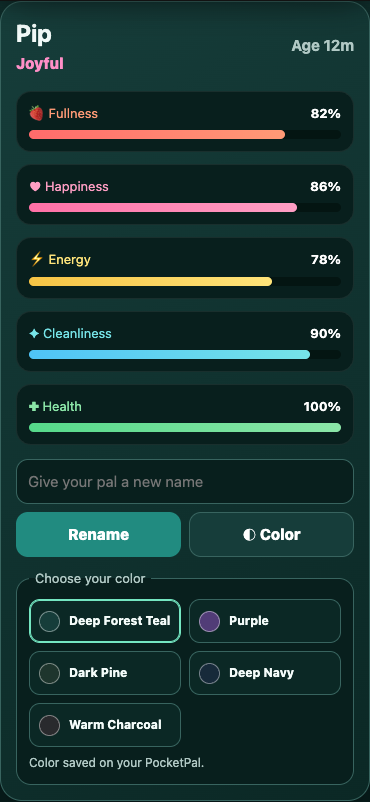
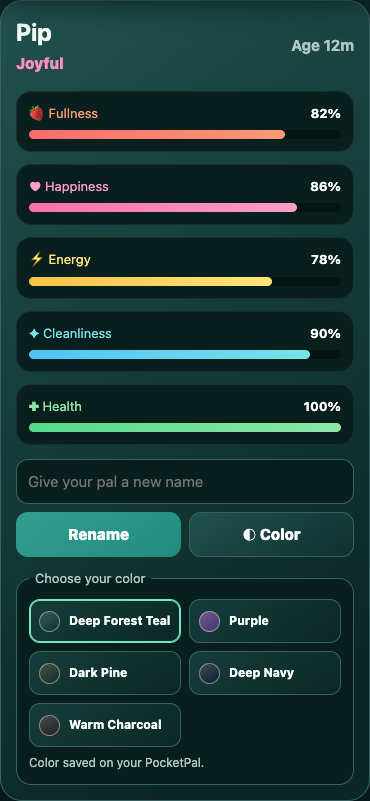
feat: enrich all five WebUI themes with gradients

diff --git a/src/WebPortal.cpp b/src/WebPortal.cpp
@@ -18,17 +18,22 @@ const char kPage[] PROGMEM = R"HTML(
 :root[data-theme="pine"]{--base:#1E352D;--bg:#0a1913;--surface:#162e24;--surface2:#1E352D;--line:#416754;--ink:#f5fcf7;--muted:#b5cbbc;--accent:#377d5f;--accent-hover:#469b75;--input:#0d2118;--panel:#11261c;--track:#06150d}
 :root[data-theme="navy"]{--base:#172A3A;--bg:#07131e;--surface:#112a3d;--surface2:#172A3A;--line:#35556e;--ink:#f4faff;--muted:#b2c5d5;--accent:#2d6a96;--accent-hover:#3984b8;--input:#091b2a;--panel:#0d2232;--track:#04111d}
 :root[data-theme="charcoal"]{--base:#292A2D;--bg:#131415;--surface:#242528;--surface2:#292A2D;--line:#54565c;--ink:#fafafa;--muted:#c4c3c1;--accent:#62656c;--accent-hover:#7b7e86;--input:#191a1c;--panel:#202124;--track:#101112}
-*{box-sizing:border-box}body{margin:0;min-height:100vh;background:radial-gradient(circle at 50% -10%,var(--base) 0,var(--surface) 40%,var(--bg) 78%);font:15px/1.4 ui-rounded,system-ui,-apple-system,sans-serif;color:var(--ink)}button,input,select{font:inherit}button{color:inherit}main{width:min(100%,820px);margin:auto;padding:18px 18px 34px}.topbar{display:flex;align-items:center;justify-content:space-between;margin:0 2px 14px}.brand{display:flex;align-items:center;gap:10px}.logo{display:grid;place-items:center;width:40px;height:40px;border-radius:13px;background:linear-gradient(145deg,var(--mint),#4bb39f);color:#152820;font-size:23px;box-shadow:0 8px 24px #0005}.brand h1{margin:0;font-size:22px;line-height:1}.brand small{display:block;margin-top:5px;color:var(--muted);font-weight:650}.online{display:flex;align-items:center;gap:7px;padding:7px 10px;border:1px solid var(--line);border-radius:99px;background:var(--surface2);color:var(--ink);font-size:12px;font-weight:800}.dot{width:8px;height:8px;border-radius:50%;background:var(--mint);box-shadow:0 0 12px var(--mint)}
+:root{--page-top:#205957;--header-top:#246361;--card-top:#20514d;--button-top:#329e91}
+:root[data-theme="purple"]{--page-top:#4c366b;--header-top:#614782;--card-top:#42305b;--button-top:#9473bb}
+:root[data-theme="pine"]{--page-top:#2c5041;--header-top:#355e4c;--card-top:#2a493b;--button-top:#519b76}
+:root[data-theme="navy"]{--page-top:#214761;--header-top:#285775;--card-top:#203f57;--button-top:#4188b8}
+:root[data-theme="charcoal"]{--page-top:#3e3f43;--header-top:#4b4c50;--card-top:#3b3c40;--button-top:#81838a}
+*{box-sizing:border-box}body{margin:0;min-height:100vh;background:linear-gradient(180deg,var(--page-top) 0,var(--base) 210px,var(--bg) 760px);background-color:var(--bg);font:15px/1.4 ui-rounded,system-ui,-apple-system,sans-serif;color:var(--ink)}button,input,select{font:inherit}button{color:inherit}main{width:min(100%,820px);margin:auto;padding:18px 18px 34px}.topbar{display:flex;align-items:center;justify-content:space-between;margin:0 0 14px;padding:12px;border:1px solid var(--line);border-radius:20px;background:linear-gradient(135deg,var(--header-top),var(--surface) 85%)}.brand{display:flex;align-items:center;gap:10px}.logo{display:grid;place-items:center;width:40px;height:40px;border-radius:13px;background:linear-gradient(145deg,var(--mint),#4bb39f);color:#152820;font-size:23px;box-shadow:0 8px 24px #0005}.brand h1{margin:0;font-size:22px;line-height:1}.brand small{display:block;margin-top:5px;color:var(--muted);font-weight:650}.online{display:flex;align-items:center;gap:7px;padding:7px 10px;border:1px solid var(--line);border-radius:99px;background:linear-gradient(145deg,var(--surface2),var(--input));color:var(--ink);font-size:12px;font-weight:800}.dot{width:8px;height:8px;border-radius:50%;background:var(--mint);box-shadow:0 0 12px var(--mint)}
 .room{position:relative;height:390px;overflow:hidden;border:1px solid #71937c;border-radius:30px;background:#365941 url('/room/forest-wide.jpg') center center/cover no-repeat;box-shadow:0 24px 70px #0009}.room:before{content:'';position:absolute;inset:0;background:linear-gradient(transparent 70%,#10251d66);pointer-events:none}.ground-shadow{position:absolute;z-index:2;left:50%;bottom:45px;width:165px;height:25px;transform:translateX(-50%);border-radius:50%;background:radial-gradient(ellipse,#16382980,transparent 70%);filter:blur(3px)}.bubble{position:absolute;z-index:4;top:22px;left:50%;max-width:min(330px,62%);transform:translateX(-50%);padding:10px 15px;border-radius:17px 17px 17px 5px;background:#fff;color:#34294c;font-weight:800;text-align:center;box-shadow:0 8px 22px #0005}.room-meta{position:absolute;z-index:5;left:18px;right:18px;bottom:13px;display:flex;justify-content:space-between;pointer-events:none}.chip{padding:6px 9px;border:1px solid #ffffff25;border-radius:99px;background:#171122c9;backdrop-filter:blur(8px);color:#ddd5ea;font-size:11px;font-weight:850;text-transform:uppercase;letter-spacing:.04em}
 .pet{position:absolute;z-index:3;left:50%;bottom:49px;width:230px;height:230px;transform:translateX(-50%);transform-origin:50% 95%;animation:bob 2.2s ease-in-out infinite}.dragon{display:block;width:100%;height:100%;object-fit:contain;filter:drop-shadow(0 10px 8px #0004)}.pet.sleeping{animation:none}.pet.sleeping:after{content:'Z z';position:absolute;right:12px;top:72px;color:#fff;font-weight:900;font-size:23px}.pet.excited{animation:bob .72s ease-in-out infinite}.pet.surprised{animation:jump .42s ease-out infinite}.pet.motion-tilt-left{animation:none;transform:translateX(-56%) rotate(-7deg)}.pet.motion-tilt-right{animation:none;transform:translateX(-44%) rotate(7deg)}.pet.motion-tilt-forward{animation:none;transform:translateX(-50%) scale(.94)}.pet.motion-tilt-back{animation:none;transform:translateX(-50%) scale(1.06)}.pet.motion-shake{animation:shake .18s linear infinite}.pet.motion-rocking{animation:rock .7s ease-in-out infinite}
-.tabs{display:grid;grid-template-columns:repeat(3,1fr);gap:7px;margin:14px 0;padding:6px;border:1px solid var(--line);border-radius:18px;background:var(--input)}.tab{border:0;border-radius:12px;padding:10px;background:transparent;color:var(--muted);font-weight:850;cursor:pointer}.tab.active{background:var(--accent);color:#fff;box-shadow:0 5px 14px #0004}.panel{display:none}.panel.active{display:block}.card{padding:18px;border:1px solid var(--line);border-radius:22px;background:linear-gradient(145deg,var(--surface2),var(--panel));box-shadow:0 14px 35px #0004}.section-title{display:flex;align-items:flex-start;justify-content:space-between;gap:12px;margin-bottom:15px}.section-title h2,.identity h2{margin:0;font-size:24px}.section-title p{margin:4px 0 0;color:var(--muted)}.identity{display:flex;align-items:center;justify-content:space-between;gap:12px}.mood{margin-top:3px;color:var(--pink);font-weight:850;text-transform:capitalize}.age{color:var(--muted);font-weight:700}.stats{display:grid;grid-template-columns:repeat(2,1fr);gap:12px;margin-top:17px}.stat{padding:12px;border:1px solid #ffffff12;border-radius:15px;background:var(--input)}.stat label{display:flex;justify-content:space-between;color:var(--muted);font-size:13px}.stat b{color:#fff}.track,.meter{height:9px;margin-top:8px;border-radius:99px;background:var(--track);overflow:hidden}.fill,.meter-fill{height:100%;width:0;border-radius:inherit;background:linear-gradient(90deg,var(--pink),var(--sun));transition:width .3s}.settings{display:flex;gap:8px;margin-top:14px}.settings input{min-width:0;flex:1;border:1px solid var(--line);border-radius:12px;padding:11px;background:var(--input);color:#fff}.primary,.secondary{border:0;border-radius:12px;padding:11px 14px;background:var(--accent);color:#fff;font-weight:850;cursor:pointer}.secondary{border:1px solid var(--line);background:var(--surface2)}.primary:active,.secondary:active,.action:active{transform:translateY(1px)}
-.actions{display:grid;grid-template-columns:repeat(5,1fr);gap:10px}.action{min-height:104px;border:1px solid #ffffff17;border-radius:18px;padding:13px 8px;background:linear-gradient(145deg,var(--surface2),var(--panel));color:#fff;cursor:pointer}.action span{display:block;font-size:29px}.action b{display:block;margin-top:7px}.action small{display:block;margin-top:3px;color:var(--muted);font-size:11px}.action:hover{border-color:var(--muted);background:var(--accent-hover)}.sensor-grid{display:grid;grid-template-columns:1fr 1fr;gap:12px}.sensor{padding:16px;border:1px solid var(--line);border-radius:18px;background:linear-gradient(145deg,var(--surface2),var(--panel))}.sensor.motion{border-color:var(--line);background:var(--panel)}.sensor-head{display:flex;justify-content:space-between;align-items:center;gap:10px}.sensor-title{font-weight:900}.sensor-state{color:var(--mint);font-size:12px;font-weight:900;text-transform:capitalize}.meter{height:12px;margin:14px 0 12px}.meter-fill{background:linear-gradient(90deg,var(--mint),var(--sun),var(--pink))}.controls{display:flex;align-items:center;justify-content:space-between;gap:8px;flex-wrap:wrap}.controls label{color:var(--muted);font-size:12px}.controls select{margin-left:4px;padding:8px;border:1px solid var(--line);border-radius:10px;background:var(--input);color:#fff}.note{margin:12px 0 0;color:var(--muted);font-size:12px}.privacy{margin-top:12px;padding:12px;border:1px solid var(--line);border-radius:14px;background:var(--input);color:var(--muted);font-size:12px}.foot{text-align:center;color:var(--muted);font-size:12px;margin:17px 0 0}
+.tabs{display:grid;grid-template-columns:repeat(3,1fr);gap:7px;margin:14px 0;padding:6px;border:1px solid var(--line);border-radius:18px;background:linear-gradient(135deg,var(--surface),var(--input))}.tab{border:0;border-radius:12px;padding:10px;background:transparent;color:var(--muted);font-weight:850;cursor:pointer}.tab.active{background:linear-gradient(145deg,var(--button-top),var(--accent));color:#fff;box-shadow:0 5px 14px #0004}.panel{display:none}.panel.active{display:block}.card{padding:18px;border:1px solid var(--line);border-radius:22px;background:linear-gradient(145deg,var(--card-top),var(--panel) 85%);box-shadow:0 14px 35px #0004}.section-title{display:flex;align-items:flex-start;justify-content:space-between;gap:12px;margin-bottom:15px}.section-title h2,.identity h2{margin:0;font-size:24px}.section-title p{margin:4px 0 0;color:var(--muted)}.identity{display:flex;align-items:center;justify-content:space-between;gap:12px}.mood{margin-top:3px;color:var(--pink);font-weight:850;text-transform:capitalize}.age{color:var(--muted);font-weight:700}.stats{display:grid;grid-template-columns:repeat(2,1fr);gap:12px;margin-top:17px}.stat{padding:12px;border:1px solid #ffffff12;border-radius:15px;background:var(--input)}.stat label{display:flex;justify-content:space-between;color:var(--muted);font-size:13px}.stat b{color:#fff}.track,.meter{height:9px;margin-top:8px;border-radius:99px;background:var(--track);overflow:hidden}.fill,.meter-fill{height:100%;width:0;border-radius:inherit;background:linear-gradient(90deg,var(--pink),var(--sun));transition:width .3s}.settings{display:flex;gap:8px;margin-top:14px}.settings input{min-width:0;flex:1;border:1px solid var(--line);border-radius:12px;padding:11px;background:var(--input);color:#fff}.primary,.secondary{border:0;border-radius:12px;padding:11px 14px;background:linear-gradient(145deg,var(--button-top),var(--accent));color:#fff;font-weight:850;cursor:pointer}.secondary{border:1px solid var(--line);background:linear-gradient(145deg,var(--card-top),var(--surface))}.primary:active,.secondary:active,.action:active{transform:translateY(1px)}
+.actions{display:grid;grid-template-columns:repeat(5,1fr);gap:10px}.action{min-height:104px;border:1px solid #ffffff17;border-radius:18px;padding:13px 8px;background:linear-gradient(145deg,var(--card-top),var(--panel) 85%);color:#fff;cursor:pointer}.action span{display:block;font-size:29px}.action b{display:block;margin-top:7px}.action small{display:block;margin-top:3px;color:var(--muted);font-size:11px}.action:hover{border-color:var(--muted);background:var(--accent-hover)}.sensor-grid{display:grid;grid-template-columns:1fr 1fr;gap:12px}.sensor{padding:16px;border:1px solid var(--line);border-radius:18px;background:linear-gradient(145deg,var(--card-top),var(--panel) 85%)}.sensor.motion{border-color:var(--line)}.sensor-head{display:flex;justify-content:space-between;align-items:center;gap:10px}.sensor-title{font-weight:900}.sensor-state{color:var(--mint);font-size:12px;font-weight:900;text-transform:capitalize}.meter{height:12px;margin:14px 0 12px}.meter-fill{background:linear-gradient(90deg,var(--mint),var(--sun),var(--pink))}.controls{display:flex;align-items:center;justify-content:space-between;gap:8px;flex-wrap:wrap}.controls label{color:var(--muted);font-size:12px}.controls select{margin-left:4px;padding:8px;border:1px solid var(--line);border-radius:10px;background:var(--input);color:#fff}.note{margin:12px 0 0;color:var(--muted);font-size:12px}.privacy{margin-top:12px;padding:12px;border:1px solid var(--line);border-radius:14px;background:var(--input);color:var(--muted);font-size:12px}.foot{text-align:center;color:var(--muted);font-size:12px;margin:17px 0 0}
 @keyframes bob{50%{transform:translate(-50%,-7px)}}@keyframes jump{50%{transform:translate(-50%,-18px) scale(1.06)}}@keyframes shake{25%{transform:translateX(-57%) rotate(-4deg)}75%{transform:translateX(-43%) rotate(4deg)}}@keyframes rock{25%{transform:translateX(-50%) rotate(-9deg)}75%{transform:translateX(-50%) rotate(9deg)}}
-@media(max-width:620px){main{padding:10px 10px 24px}.topbar{margin:4px 3px 10px}.online span:last-child{display:none}.room{height:390px;border-radius:23px;background-image:url('/room/forest-mobile.jpg');background-position:center 65%}.ground-shadow{bottom:36px;width:140px}.bubble{top:17px;max-width:66%;font-size:13px}.pet{bottom:39px;width:200px;height:200px}.room-meta{left:10px;right:10px;bottom:9px}.tabs{position:sticky;z-index:20;bottom:8px;order:3;box-shadow:0 10px 35px #000b}.stats,.sensor-grid{grid-template-columns:1fr}.actions{grid-template-columns:repeat(2,1fr)}.action{min-height:91px}.action:last-child{grid-column:1/-1}.card{padding:15px}.settings{flex-direction:column}}
+@media(max-width:620px){main{padding:10px 10px 24px}.topbar{margin:0 0 10px;padding:10px}.brand h1{font-size:20px}.brand small{font-size:11px}.online span:last-child{display:none}.room{height:390px;border-radius:23px;background-image:url('/room/forest-mobile.jpg');background-position:center 65%}.ground-shadow{bottom:36px;width:140px}.bubble{top:17px;max-width:66%;font-size:13px}.pet{bottom:39px;width:200px;height:200px}.room-meta{left:10px;right:10px;bottom:9px}.tabs{position:sticky;z-index:20;bottom:8px;order:3;box-shadow:0 10px 35px #000b}.stats,.sensor-grid{grid-template-columns:1fr}.actions{grid-template-columns:repeat(2,1fr)}.action{min-height:91px}.action:last-child{grid-column:1/-1}.card{padding:15px}.settings{flex-direction:column}}
 @media(prefers-reduced-motion:reduce){*,*:before,*:after{animation-duration:.01ms!important;animation-iteration-count:1!important;transition:none!important}}
 
 .stat[data-stat="fullness"]{--stat-start:#FF6B6B;--stat-end:#FF9A76}.stat[data-stat="happiness"]{--stat-start:#FF70A6;--stat-end:#FF9EC4}.stat[data-stat="energy"]{--stat-start:#F6C445;--stat-end:#FFE47A}.stat[data-stat="cleanliness"]{--stat-start:#4FC3F7;--stat-end:#76E4E8}.stat[data-stat="health"]{--stat-start:#55D98A;--stat-end:#8BE6A8}.stat .fill{background:linear-gradient(90deg,var(--stat-start),var(--stat-end))}.stat label span{color:var(--stat-end)}
-.settings{display:grid;grid-template-columns:minmax(0,1fr) auto auto}.theme-picker[hidden]{display:none}.theme-picker{margin:12px 0 0;padding:12px;border:1px solid var(--line);border-radius:15px;background:var(--input)}.theme-picker legend{color:var(--muted);padding:0 6px;font-size:13px}.theme-options{display:grid;grid-template-columns:repeat(2,minmax(0,1fr));gap:8px}.theme-choice{display:flex;align-items:center;gap:9px;min-height:44px;padding:9px;border:1px solid var(--line);border-radius:11px;background:var(--panel);text-align:left;font-size:12px;font-weight:750;cursor:pointer}.theme-choice[aria-pressed="true"]{border-color:var(--mint);box-shadow:inset 0 0 0 1px var(--mint)}.swatch{flex:none;width:21px;height:21px;border:1px solid #ffffff66;border-radius:50%;background:var(--swatch)}.theme-choice:disabled{opacity:.65;cursor:wait}.color-message{margin:8px 0 0;font-size:12px;color:var(--muted)}button:focus-visible,input:focus-visible,select:focus-visible{outline:2px solid var(--mint);outline-offset:3px}
+.settings{display:grid;grid-template-columns:minmax(0,1fr) auto auto}.theme-picker[hidden]{display:none}.theme-picker{margin:12px 0 0;padding:12px;border:1px solid var(--line);border-radius:15px;background:var(--input)}.theme-picker legend{color:var(--muted);padding:0 6px;font-size:13px}.theme-options{display:grid;grid-template-columns:repeat(2,minmax(0,1fr));gap:8px}.theme-choice{display:flex;align-items:center;gap:9px;min-height:44px;padding:9px;border:1px solid var(--line);border-radius:11px;background:linear-gradient(145deg,var(--surface2),var(--panel));text-align:left;font-size:12px;font-weight:750;cursor:pointer}.theme-choice[aria-pressed="true"]{border-color:var(--mint);box-shadow:inset 0 0 0 1px var(--mint)}.swatch{flex:none;width:21px;height:21px;border:1px solid #ffffff66;border-radius:50%;background:linear-gradient(145deg,#ffffff28,transparent 75%),var(--swatch)}.theme-choice:disabled{opacity:.65;cursor:wait}.color-message{margin:8px 0 0;font-size:12px;color:var(--muted)}button:focus-visible,input:focus-visible,select:focus-visible{outline:2px solid var(--mint);outline-offset:3px}
 @media(max-width:620px){.settings{grid-template-columns:1fr 1fr}.settings input{grid-column:1/-1}.theme-options{grid-template-columns:1fr 1fr}}
 </style></head><body><main>
 <header class="topbar"><div class="brand"><div class="logo">♥</div><div><h1>PocketPal S3</h1><small>Your tiny offline companion</small></div></div><div class="online"><span class="dot"></span><span>Local &amp; live</span></div></header>

diff --git a/src/main.cpp b/src/main.cpp
@@ -9,7 +9,7 @@
 #include "WebPortal.h"
 
 namespace {
-constexpr char kVersion[] = "v0.6.0";
+constexpr char kVersion[] = "v0.6.1";
 constexpr uint8_t kSelectPin = 11;
 constexpr uint8_t kNextPin = 12;
 constexpr uint8_t kBrightness = 90;

diff --git a/README.md b/README.md
@@ -2,7 +2,7 @@
 
 PocketPal S3 is an interactive virtual pet with a live, offline WebUI for the M5StickS3.
 
-> **Early development — v0.6.0.** The forest WebUI now has selectable color themes, and both displays share five color-coded care stats.
+> **Early development — v0.6.1.** The forest WebUI has five gradient color themes, and both displays share five color-coded care stats.
 
 ## First milestone
 
@@ -59,6 +59,8 @@ are in [assets/room](assets/room/README.md).
 Use **Color** beside **Rename** at the bottom of Home to choose Deep Forest Teal
 (the default), Purple, Dark Pine, Deep Navy, or Warm Charcoal. The choice is saved
 on PocketPal, survives a restart, and is shared by connected browsers.
+Each theme uses a richer colored top fading to a dark page background, with
+matching gradients on the header, cards, and buttons.
 
 Fullness is coral, Happiness pink, Energy gold, Cleanliness aqua, and Health
 green. These stat gradients stay consistent across themes and match the five

diff --git a/CHANGELOG.md b/CHANGELOG.md
@@ -1,5 +1,10 @@
 # Changelog
 
+## v0.6.1
+
+- Added richer light-to-dark page, header, card, and button gradients across all five WebUI themes.
+- Kept the forest artwork, saved theme selection, and shared stat colors unchanged.
+
 ## v0.6.0
 
 - Added a Color button beside Rename with five selectable WebUI themes.
